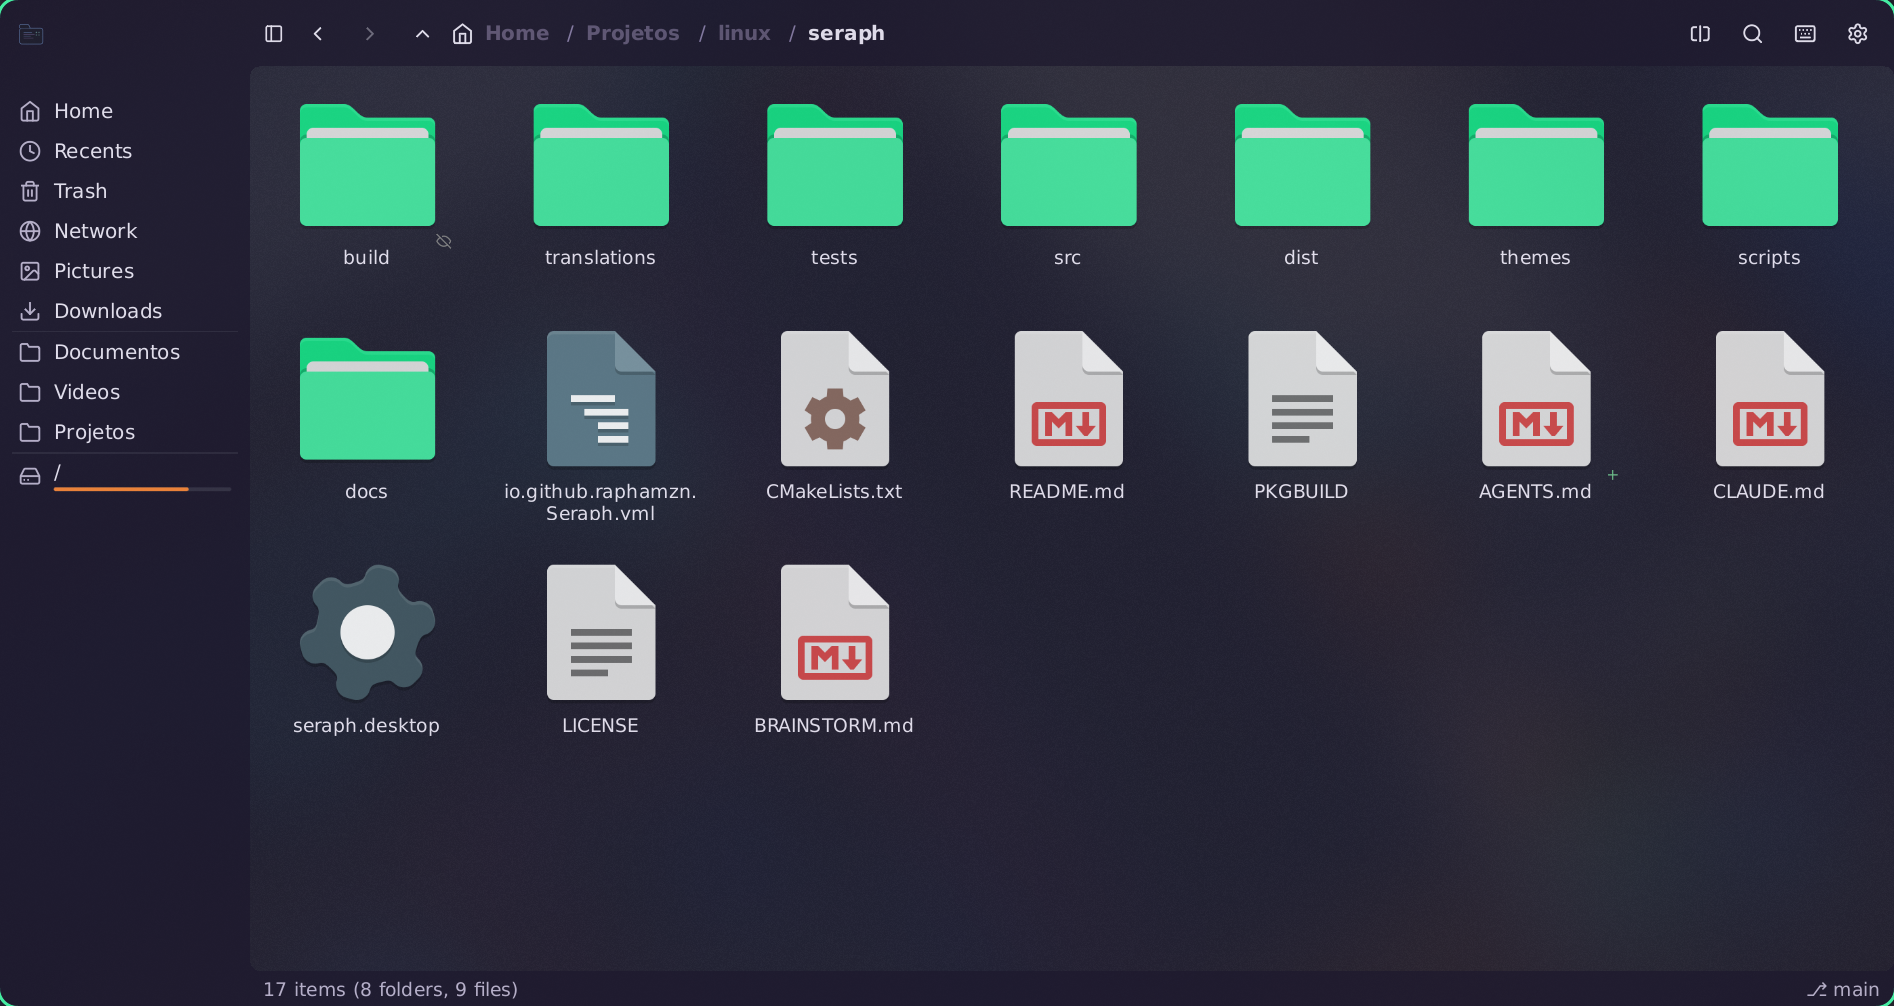
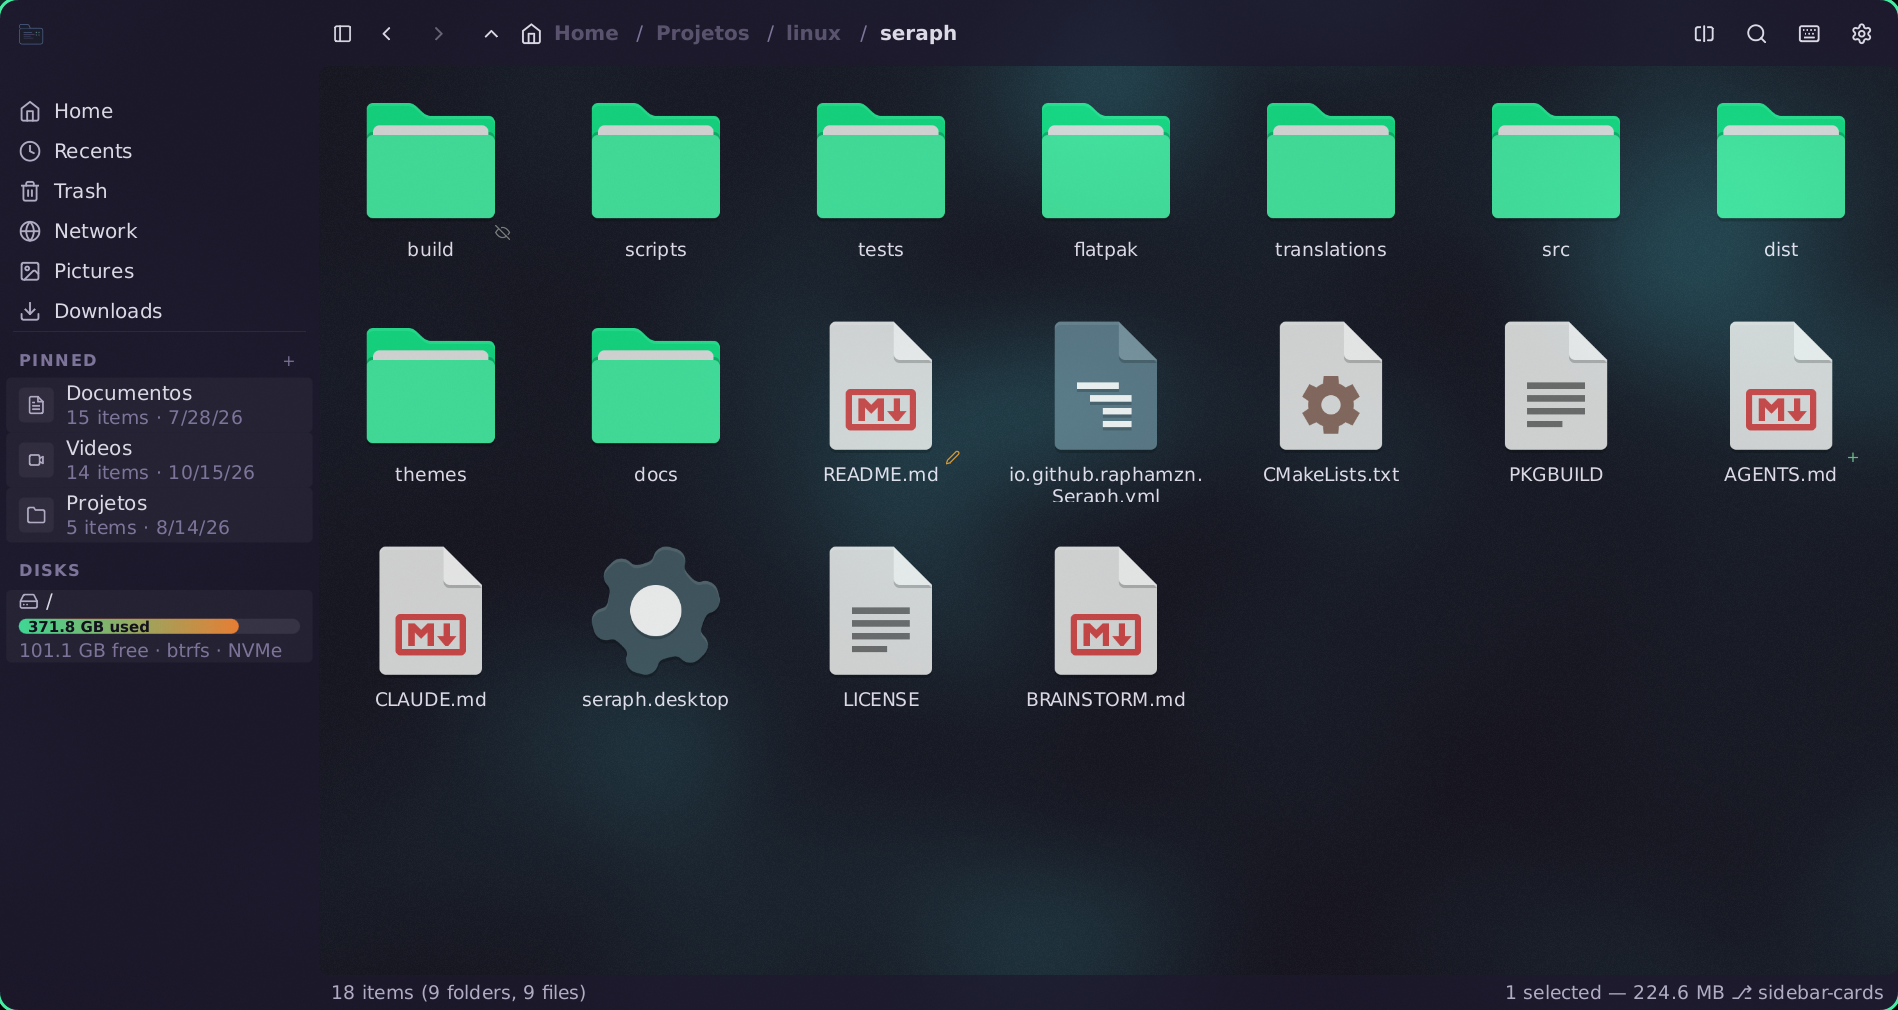
docs: pinned folder cards and disk cards
README bullets for the styled pinned folders and the informative disks;
the grid screenshot retaken with the new sidebar.

diff --git a/README.md b/README.md
@@ -50,7 +50,8 @@ Seraph is a Qt6/QML file manager designed to feel native on Hyprland and niri: l
 - **Full keyboard navigation** — arrows, vim-friendly shortcuts, type-ahead search
 - **Tabs** with independent history per pane
 - **Path bar** with breadcrumbs and inline editing (`Ctrl+L`)
-- **Bookmarks sidebar** with drag-to-reorder and udisks2 device mounting
+- **Pinned folders** as styled cards in the sidebar: pick an icon and a theme colour per folder (right-click → Customize…), see item counts and last modification at a glance, drag to reorder
+- **Disks** that show free space, filesystem and bus without hovering, with a one-click eject for removable media and udisks2 mounting
 - **Kinetic wheel scrolling** with momentum and rubber-band overscroll
 - **Rubber-band selection** in all views
 
